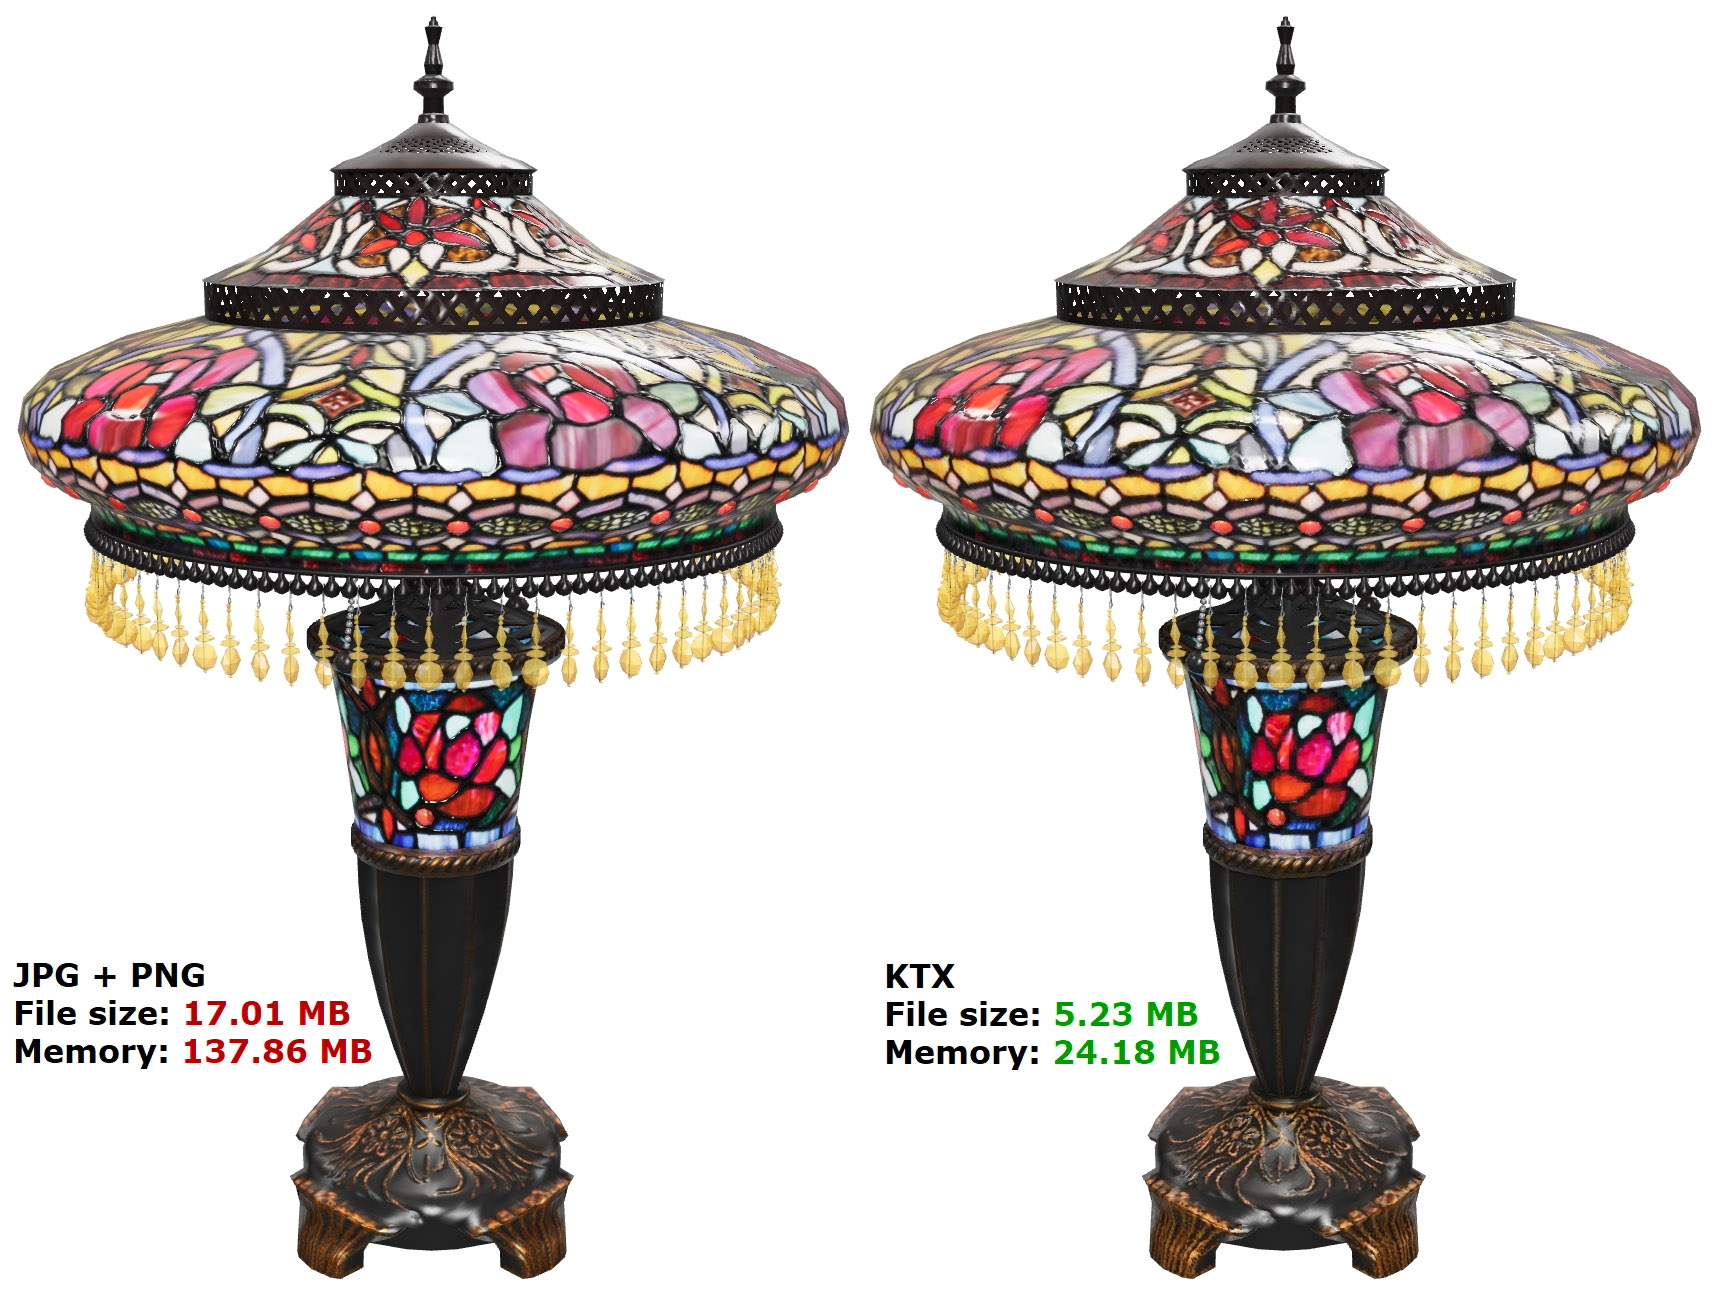
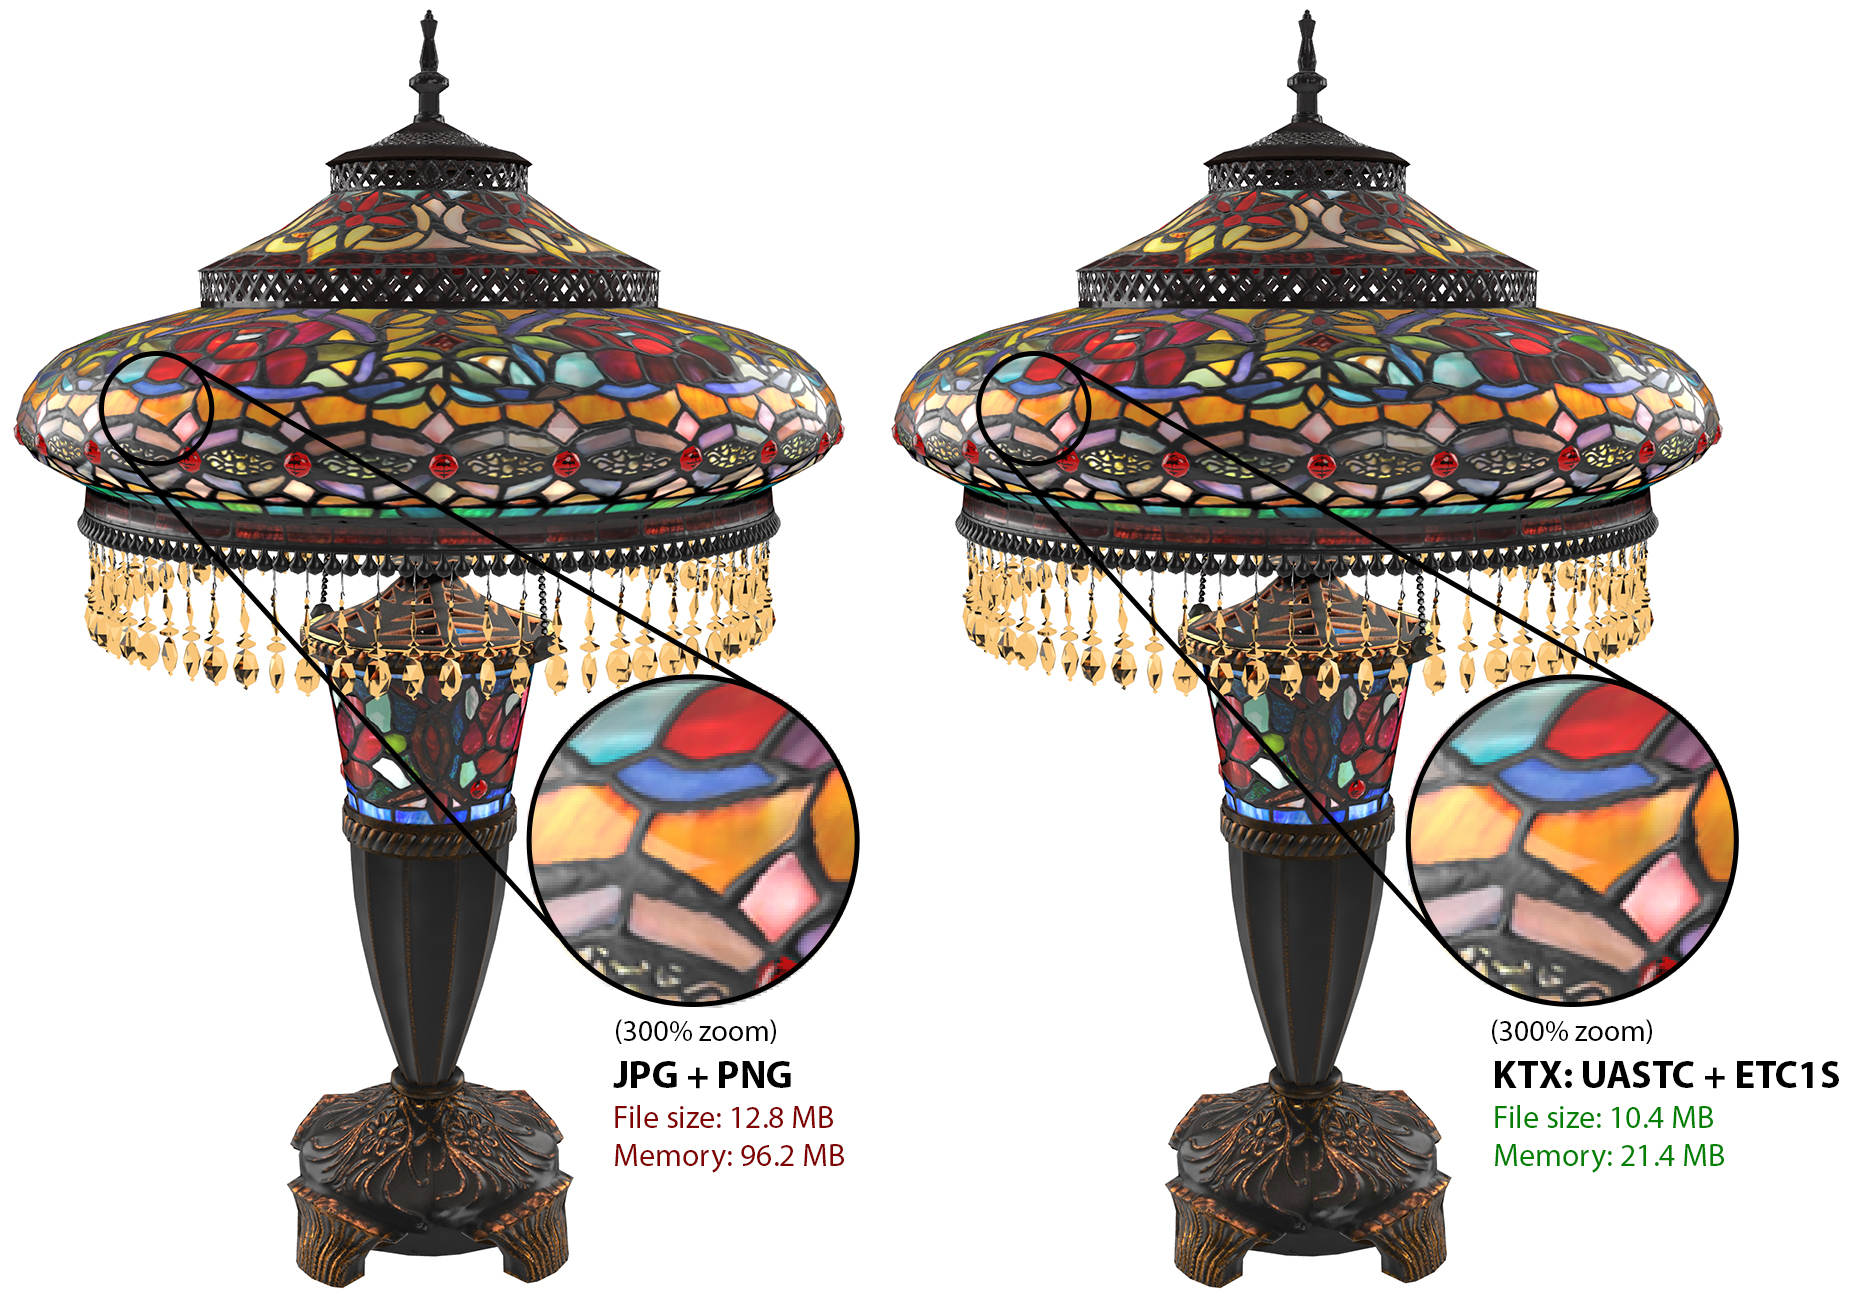
Updated images, new RDO settings
Lamp model updated.
Improved info comparing ETC1S and UASTC.
RDO settings updated.
How to manually insert KTX into glTF.
Rearranged Tips & Tricks a bit.

to do:
1. Replace the FlightHelmet with the Duck to demonstrate ETC1S.
2. Rearrange the Methods under gltf-transform: First option: UASTC for Nrm/ORM, ETC1S all else. Second: UASTC all. Third: ETC1S all.
3. UASTC for all if high contrast high detail color textures. ETC1S doesn’t produce quality results on complex textures. It works well on textures with mostly solid colors, or mostly monochromatic values. ETC1S is useful when texture variation is not that important. Encodes 1 color and differences from it. Areas of saturated color next to each other, not great. Duck is great in ETC1S. Good for non-PBR use cases.

diff --git a/KTXArtistGuide.md b/KTXArtistGuide.md
@@ -12,7 +12,9 @@ Textures in a glTF file can be compressed into .ktx2 GPU textures using Basis Un
 
 Authoring compressed GPU textures often requires more careful tuning to maintain image quality, but this extra effort is worthwhile for applications that need to maintain a smooth framerate while uploading images, or where GPU memory is limited. In certain cases they may also have smaller file sizes than PNG or JPEG textures, but this is not guaranteed. If performance is important, the benefits of compressed GPU textures may outweigh an increase in file size.
 
-There are two Basis Universal compression methods: ETC1S and UASTC. ETC1S offers lower size and lower quality than UASTC. In some cases it may be useful to double the resolution of the texture to minimize compression artifacts while still retaining a smaller file size. Consider using less aggressive compression settings for normal maps than for other texture types: you may want to use UASTC for normal maps and ETC1S for other textures, for example.
+There are two Basis Universal compression methods: ETC1S and UASTC. ETC1S offers greater compression and works better with large areas of solid colors. UASTC offers higher quality and works better with textures that have very different values in RGB channels, for example ORM and Normal maps.
+
+In some cases it may be useful to double the resolution of the texture to minimize compression artifacts while still retaining a smaller file size. Consider using less aggressive compression settings for normal maps than for other texture types: you may want to use UASTC for normal maps and ETC1S for other textures, for example.
 
 ## Installing KTX Software
 
@@ -48,7 +50,7 @@ Node.js includes the NPM node package manager, which allows you to run the javas
 
 ## Installing glTF-Transform
 
-[glTF-Transform](https://gltf-transform.donmccurdy.com/cli.html) is used for compressing textures inside glTF using KTX texture compression.
+[glTF-Transform](https://gltf-transform.donmccurdy.com/cli.html) is useful for compressing a bunch of textures inside a glTF model.
 
 1. Open the OS command prompt (or PowerShell in Windows). 
 
@@ -65,7 +67,7 @@ With everything installed, you can now compress your glTF files. There are diffe
 ### METHOD 1: UASTC + ETC1S
 Compress normal and occlusion/roughness/metalness textures with UASTC, and all others with ETC1S:
 ```
-gltf-transform uastc input.glb output1.glb --level 4 --rdo-quality 4 --slots "{normalTexture,occlusionTexture,metallicRoughnessTexture}" --zstd 18 --verbose
+gltf-transform uastc input.glb output1.glb --level 4 --rdo 4 --slots "{normalTexture,occlusionTexture,metallicRoughnessTexture}" --zstd 18 --verbose
 gltf-transform etc1s output1.glb output2.glb --quality 255 --verbose
 ```
 
@@ -74,7 +76,7 @@ gltf-transform etc1s output1.glb output2.glb --quality 255 --verbose
 * `input.glb` is the file you want to compress, with PNG and/or JPEG textures inside of it.
 * `output1.glb` is the file you want to save, with the new KTX textures. The first step creates a GLB with some textures in UASTC, keeping the rest in their original formats. The second step then compresses the remaining originals with ETC1S.
 * `--level 4` is a high quality setting. It produces the highest achievable quality, but can be very slow. If it's too slow, try 3 instead.
-* `--rdo-quality 4` is a medium quality setting, but makes smaller files. A good range to test is 0.2 to 4.
+* `--rdo 4` is a medium quality setting, but makes smaller files. Full range is [.001, 10.0]. Lower values yield higher quality/larger LZ compressed files, higher values yield lower quality/smaller LZ compressed files. A good range to try is [.25, 10]. For normal maps, try a range of [.25, .75].
 * `--slots` lets you include or exclude texture types, using the following setting:
 * `"{normalTexture,occlusionTexture,metallicRoughnessTexture}"` tells glTF Transform to compress only normal and ORM textures with UASTC. To see a list of texture slots in a GLB use the command `gltf-transform inspect input.glb` This will show the dimensions and file sizes for each texture. This is particularly useful to identify the names of the `--slots` so you can apply different compression settings to different texture types.
 * `--verbose` shows step by step what glTF Transform is doing. On Windows there’s no progress indicator during compression, only the blinking cursor. `--verbose` is helpful as a progress bar to make sure it’s working, and to help you figure out if you included the right options or not. 
@@ -167,7 +169,7 @@ After storing the 3D asset as a glTF file, the KTX asset is available on the fil
 
 It’s also possible to convert individual image files to KTX with Basis Universal compression, using the command line tool [Khronos Texture Tools](https://github.khronos.org/KTX-Software/ktxtools/toktx.html) (`toktx`).
 
-This tool offers the most flexibility and control over all compression options. After converting a texture, the new ktx files will need to be inserted into a glTF file, by either replacing existing textures or being added as new ones.
+This tool offers the most flexibility and control over all compression options. After converting a texture, the new KTX files will need to be referenced by your glTF file, by either replacing existing textures or adding them as new ones.
 
 ### ETC1S / BasisLZ Parameters
 The `toktx` command line tool exposes three main codec parameters related to ETC1S / BasisLZ:
@@ -178,9 +180,18 @@ The `toktx` command line tool exposes three main codec parameters related to ETC
 ### UASTC Parameters
 The `toktx` command line tool exposes four UASTC codec parameters:
 * **Quality Level** (`--uastc [<level>]`): Integer value of [0, 4] range, default is 2. 0 - fastest/lowest quality, 3 - slowest practical option, 4 - impractically slow / highest achievable quality.
-* **RDO Quality Scalar** (`--uastc_rdo_q [<quality>]`): Floating-point value of [0.001, 10.0] range, default is 1.0. Lower values lead to higher quality / larger LZ-compressed files, higher values - to lower quality / smaller LZ compressed files. Good range to try is [0.2, 4.0].
+* **RDO Quality Scalar** (`--uastc_rdo_l [<lambda>]`): Enable UASTC RDO post-processing and optionally set UASTC RDO quality scalar (lambda). Lower values yield higher quality/larger LZ compressed files, higher values yield lower quality/smaller LZ compressed files. A good range to try is [.25,10]. For normal maps a good range is [.25,.75]. The full range is [.001,10.0]. Default is 1.0.
 * **RDO Dictionary Byte Length** (`--uastc_rdo_d [<size>]`): Integer value of [256, 65536] range, default is 32768. Lower values lead to faster but less efficient compression.
 * **Zstandard Compression Level** (`--zcmp [<level>]`): Apply Zstandard lossless compression after UASTC compression. The range is [1, 22], the default is 3. Lower values lead to faster processing but give less compression. Values above 20 should be used with caution as they require more memory during compression.
+
+### Inserting KTX into glTF
+Because toktx only compresses the textures but doesn't alter the glTF file itself, you will need to manually update the .glTF code to use your new textures.
+
+* `extensionsUsed` should be inserted (if it doesn't exist already) to add the `KTX_texture_basisu` property.
+* `extensionsRequired` should be also inserted to add the `KTX_texture_basisu` property, unless your model is ok to be rendered without those textures.
+* In the `textures` section, each texture will need the `KTX_texture_basisu` extension defined.
+
+![the extensions properties within textures](figures/textures-extensions-properties.png)
 
 ## Converting Between .glTF and .GLB Formats
 
@@ -207,20 +218,13 @@ You may additionally apply [Draco mesh compression](https://github.com/google/dr
 
 ### StainedGlassLamp
 
-This [stained glass lamp model](https://github.com/KhronosGroup/glTF-Sample-Models/pull/292) from Wayfair uses JPG and PNG textures in a range of dimensions from 2048 to 256. The overall file size is 17 MB, but it increases to 138 MB in GPU memory because the textures must be uncompressed to use them for rendering.
-
-![Lamp before and after compression](figures/lamp-before-after.jpg)
-
-Left: JPG & PNG textures. Right: KTX textures. 
-
-Compressing the textures with KTX reduces the file size to 5 MB, and it becomes only 24 MB in GPU memory. That's about 31% the file size, and just 18% the GPU size!
-
-![Lamp chart with compression sizes](figures/lamp-chart.png)
+This [stained glass lamp model](https://github.com/KhronosGroup/glTF-Sample-Models/pull/292) from Wayfair uses JPG and PNG textures. The overall file size is about 13 MB, but it increases to 96 MB in GPU memory because the textures must be uncompressed to use them for rendering.
 
 ![The whole lamp, before and after](figures/lamp-whole-before-after.jpg)
 
-From an average viewing distance, the artifacts on the lamp are fairly minor, but the savings are drastic.
+The artifacts on the lamp are nearly imperceptible, but the savings are drastic. Compressing the textures with KTX reduces the file size to 10 MB, and it becomes 21 MB in GPU memory. That's about 81% of the file size and just 22% of the GPU size!
 
+![Lamp chart with compression sizes](figures/lamp-chart.jpg)
 
 ### FlightHelmet
 
@@ -236,14 +240,15 @@ Live demo of the Flight Helmet, comparing PNG and KTX: https://playground.babylo
 
 ## KTX Tips and Tricks
 
+* Make sure to evaluate the quality and performance of uncompressed textures in actual scenes before applying compression; you may not need compression at all!
+* If you can use a numerical value instead of a texture, that’s one less texture you have to compress! For example, if the Base Color on your model is a single color then it’s better to use a baseColorFactor (four numbers) instead of a baseColorTexture (a texture file). 
 * The [3D Commerce Asset Creation Guidelines](https://github.com/KhronosGroup/3DC-Asset-Creation/blob/main/asset-creation-guidelines/RealtimeAssetCreationGuidelines.md) have important information about how to create well-formed models.
-* Before compression, textures should be stored as 8 bit per channel RGB or RGBA. Application developers are encouraged to evaluate uncompressed textures fidelity and performance within actual scenes before applying compression.
+* Before compression, textures should be stored as 8 bit per channel RGB or RGBA. 
+* KTX compression will preserve the best visual quality when starting with high quality source files. Start with textures in PNG format if possible. The lossy compression in JPEG textures should be avoided as it may cause additional artifacts in the end result. KTX is going to amplify those errors, causing more blocky artifacts or more blurry results.
 * Power-of-two dimensions are almost always required for glTF textures: 2048, 1024, 512, etc. glTF-Transform has a --power-of-two flag to do the resizing for you, but starting with the intended size is better. Even when targeting newer platforms that support non-power-of-two texture dimensions, the texture dimensions still must be multiples of 4 to work with Basis Universal.
-* Dimensions of subsequent levels must follow the usual mip-mapping rule - truncating division by 2 but always greater than zero. For example, the base level of 20x12 would have the following mip levels: 10x6, 5x3, 2x1, 1x1. Content pipeline tools could either prepare mip levels themselves or rely on KTX-Software to create downscaled textures during compression.
 * Texture resolution should be appropriate for your delivery target, usually no larger than 2048x2048. Sometimes an Occlusion/Roughness/Metalness (ORM) texture has less detail than the Base Color texture, so it can be 1/4 the resolution of the Base Color… if a Base Color texture is 1024x1024, the ORM could be 512x512 and still look great on the model.
 * Conversely, in some cases it may actually be useful to increase the resolution of the texture, to minimize compression artifacts while still retaining a smaller file size. To do this, double the dimensions (e.g. 512x512 to 1024x1024) without interpolation, before compressing them, then compare the results. 
+* Dimensions of lower mips must follow the usual mip-mapping rule - truncating division by 2 but always greater than zero. For example, the base level of 20x12 would have the following mip levels: 10x6, 5x3, 2x1, 1x1. Content pipeline tools could either prepare mip levels themselves or rely on KTX-Software to create downscaled textures during compression.
 * For best results when authoring new textures, use texture dilation and minimize prominent UV seams.
-* If you can use a numerical value instead of a texture, that’s one less texture you have to compress! For example, if the Base Color on your model is a single color then it’s better to use a baseColorFactor (four numbers) instead of a baseColorTexture (a texture file). 
 * Whenever possible, align the UVs along a 4x4 pixel grid. KTX compression schemes compress the image in blocks, each of which is 4x4 pixels. When a smooth feature in a texture crosses the 4x4 border, it may suddenly get very choppy.  You’ll see less compression artifacts whenever you can avoid crossing these 4x4 blocks.
-* KTX compression will preserve the best visual quality when starting with high quality source files. Start with textures in PNG format if possible. The lossy compression in JPEG textures should be avoided as it may cause additional artifacts in the end result. KTX is going to amplify those errors, causing more blocky artifacts or more blurry results.
 * Textures with drastically different values in each of the color channels (R,G,B) will often cause more artifacts than those with similar values. Photos for example typically have similar values, whereas normal maps usually have a lot of variation from channel to channel. Because of this, photo-based textures can often be compressed more, while showing fewer artifacts. Consider using less aggressive compression settings for occlusion/roughness/metalness maps or normal maps than for other texture types: you may want to use UASTC instead, or PNG if file size is a concern.
